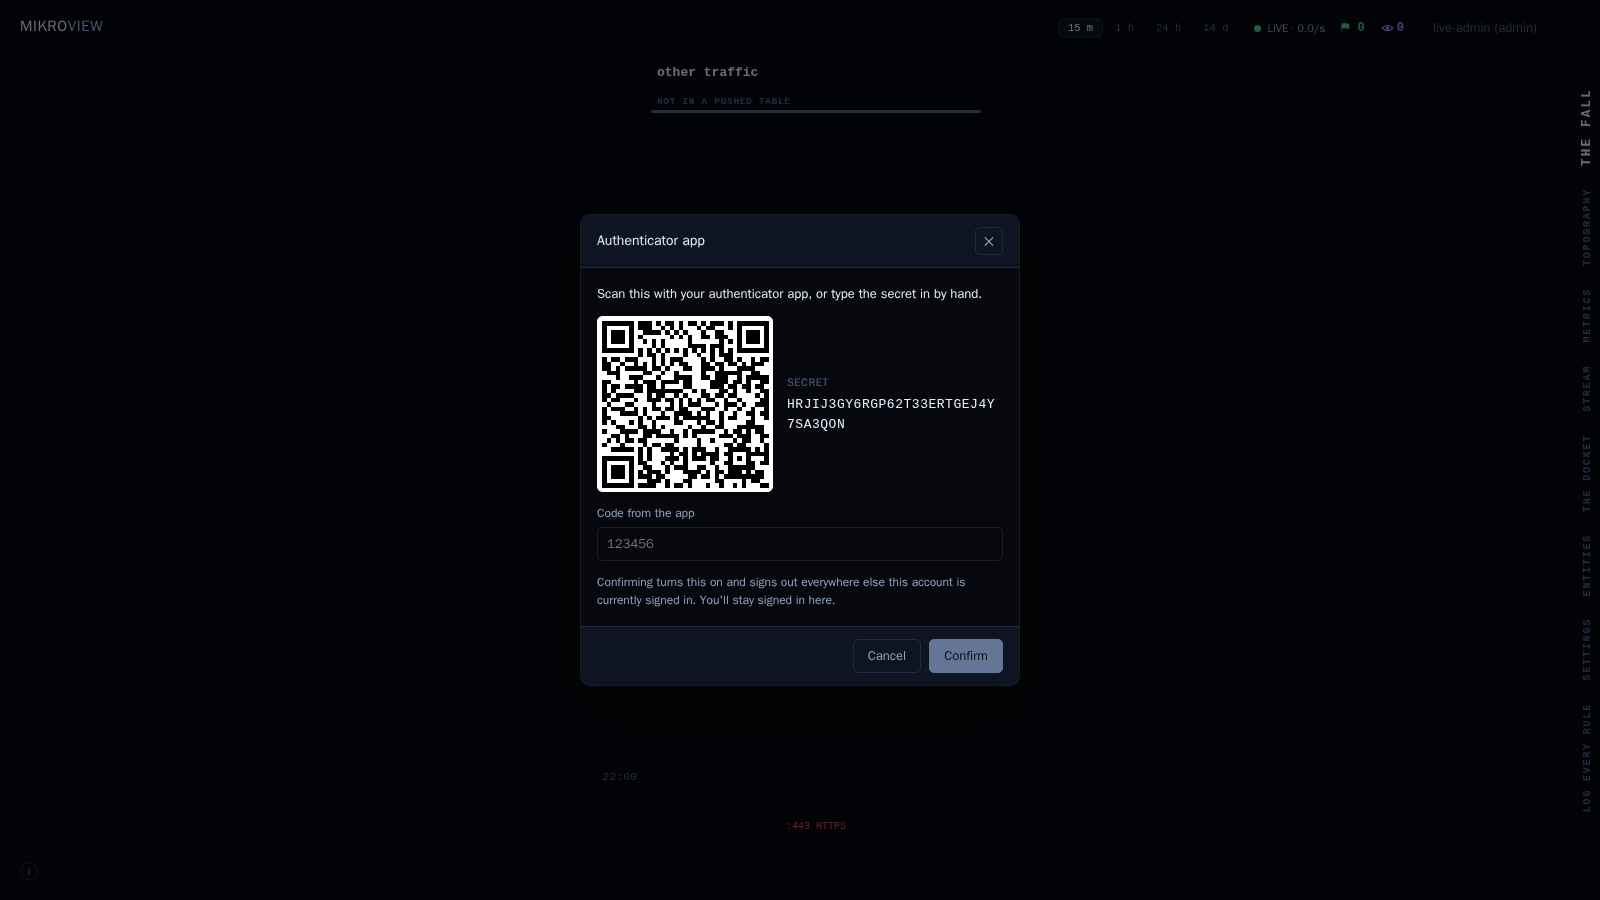
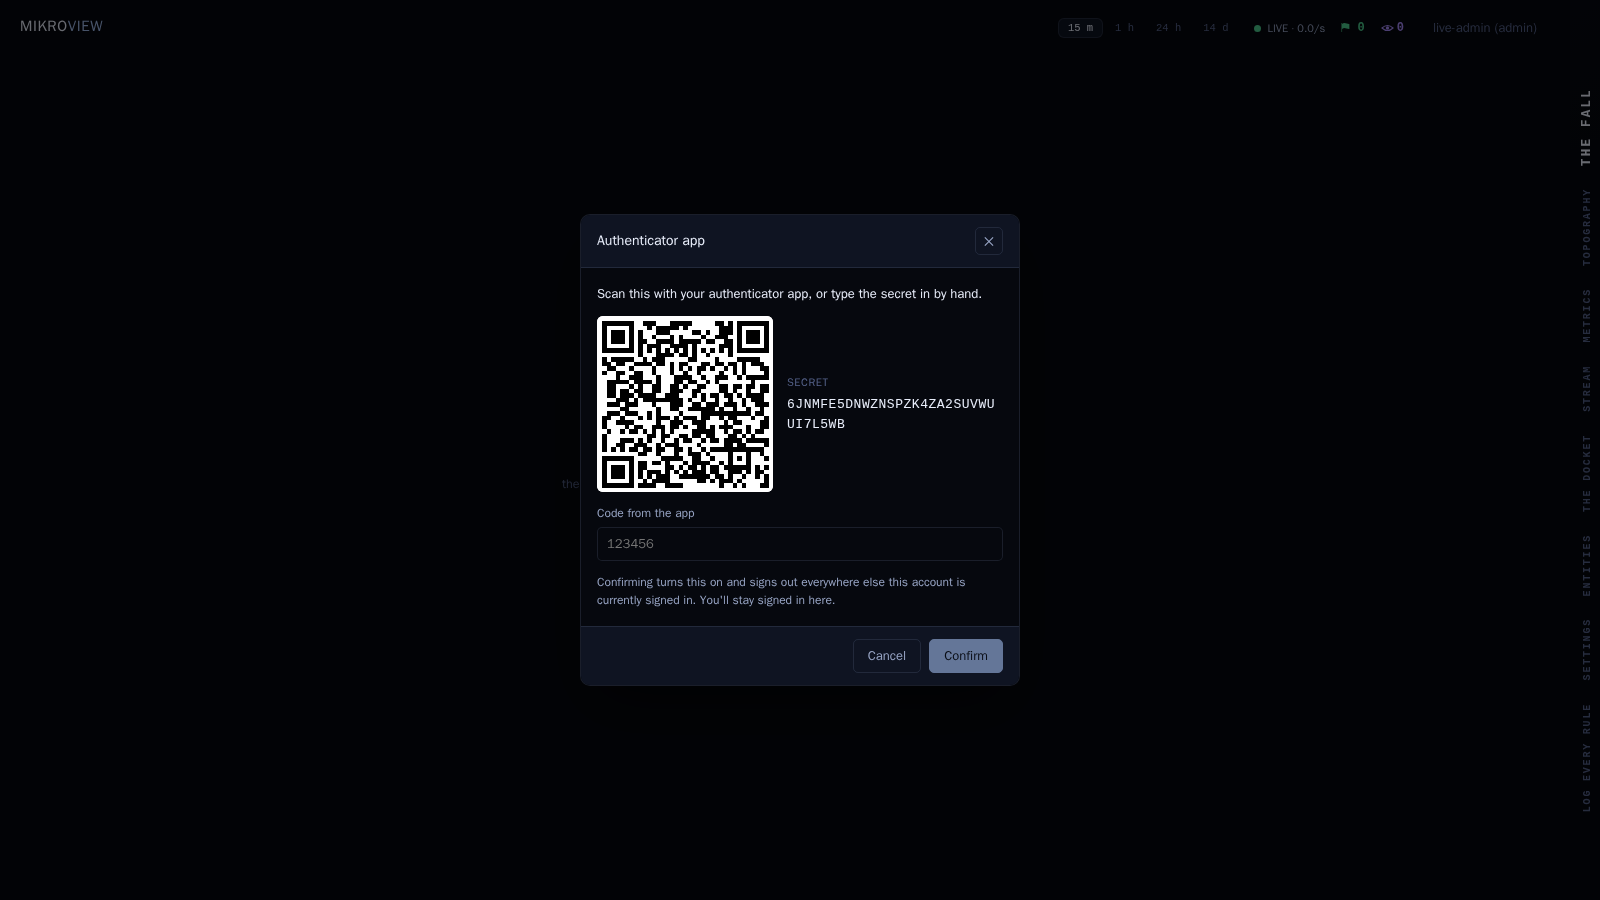
Document recovery codes at the forced-enrolment door, not the account menu
Since 3e08bb76 every local account picks its first second factor at the
forced setup screen it meets on first sign-in, and that step -- not
AuthenticatorOverlay's own account-menu modal -- is where its ten
recovery codes are minted. Rewrite the intro's "recovery codes are
shared" note, the passkey "turning one on" paragraph (which described a
sign-out-on-first-factor case that menu can no longer reach), and "Save
your recovery codes" to describe the door instead, and recapture its
screenshot from there.

Changed region(s): [[0.375, 0.3422, 0.625, 0.56], [0.4062, 0.0622, 0.5, 0.1244]]

diff --git a/docs/authenticator-app.md b/docs/authenticator-app.md
@@ -21,9 +21,12 @@ it needs MikroView to have a proper web address configured first (see
 anywhere, including a bare IP address, at the cost of typing a code
 each time.
 
-**Recovery codes are shared between the two.** Whichever one you set
-up first mints one set of ten codes, and that same set backs both —
-see "Save your recovery codes" below.
+**Recovery codes are shared between the two.** Every local account meets
+a forced setup screen the moment it first signs in with no second
+factor yet — that screen is where your very first one is chosen and
+where its ten recovery codes are minted. Anything you add afterwards
+from the account menu shares that same set rather than minting a new
+one — see "Save your recovery codes" below.
 
 **Single sign-on accounts don't need either.** If you sign in through
 SSO, your identity provider is what verifies you, and the account menu
@@ -101,11 +104,11 @@ device it's on, like "this laptop" or "YubiKey" — and continue. Your
 browser then prompts you the normal way it does for a fingerprint, face
 scan, screen-lock PIN or security key tap.
 
-Adding your very first second factor of either kind — the first
-passkey, if you haven't already set up an authenticator app — signs out
-every other browser or device this account is currently signed into,
-the same as confirming an authenticator app does. Adding a second (or
-third) passkey afterwards doesn't sign anything out.
+Adding a passkey here never signs anything out. That only happens for
+an account's very first second factor of either kind, and every local
+account sets that one up at the forced setup screen it meets on its
+first sign-in, not from this menu — see "Save your recovery codes"
+below.
 
 You can register up to ten passkeys on one account — a phone, a laptop
 and a couple of security keys, say — and each one shows in the list
@@ -140,10 +143,13 @@ you in.
 
 ## Save your recovery codes
 
-The first time you activate a second factor — whichever kind you set
-up first — MikroView shows ten recovery codes.
+A local account can never be signed in with no second factor, so the
+first time you sign in with none set up yet, MikroView stops you at a
+forced setup screen instead of taking you in: choose an authenticator
+app or a passkey, prove it works, and the last step is ten recovery
+codes.
 
-![The recovery-codes screen -- ten codes in two columns, the Copy all button, and I have saved these](screenshots/authenticator-recovery-codes-dark.png)
+![The forced setup screen's last step -- "Keep the codes", ten codes in two columns, the Copy all button, and I have saved these](screenshots/authenticator-recovery-codes-dark.png)
 
 **This is the only time they're shown.** Each works once, in place of a
 code from your app or a passkey prompt, if you can't get to either —
@@ -151,21 +157,21 @@ phone lost, out of battery, or just not to hand. Save all ten somewhere
 safe now — a password manager is the obvious place — before you press
 **I have saved these**. MikroView can't show them to you again.
 
-The screen won't close by clicking outside it or pressing Escape,
-unlike every other dialog in MikroView — the ten codes exist in the
+There is no way past this screen other than that button — no cancel,
+no skip, no sign-out, no switching accounts. The ten codes exist in the
 clear nowhere else, so leaving has to be the deliberate "I have saved
 these", not an accidental dismiss.
 
-**Setting up the other kind afterwards doesn't mint a new set.** If you
-already have an authenticator app and add a passkey (or the other way
-round), MikroView tells you your existing codes still cover the new
-factor too, rather than showing you a second set. Removing one factor
-doesn't clear the codes either, as long as the other kind is still
-active — codes are only cleared when your account goes back to having
-no second factor at all (see "If you lose access" below). The only way
-to draw a genuinely fresh set of ten is to remove every second factor
-you have — which does clear the shared codes — and set one up again
-from scratch.
+**Adding the other kind afterwards, from the account menu, doesn't mint
+a new set.** If you already have an authenticator app and add a
+passkey (or the other way round), MikroView tells you your existing
+codes still cover the new factor too, rather than showing you a second
+set. Removing one factor doesn't clear the codes either, as long as the
+other kind is still active — codes are only cleared when your account
+goes back to having no second factor at all (see "If you lose access"
+below). Removing your very last factor signs you out at once, and the
+next time you sign in you're back at the forced setup screen above,
+picking a factor and drawing a genuinely fresh set of ten from scratch.
 
 ## Signing in afterwards
 
